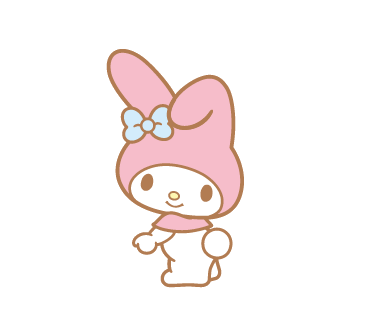
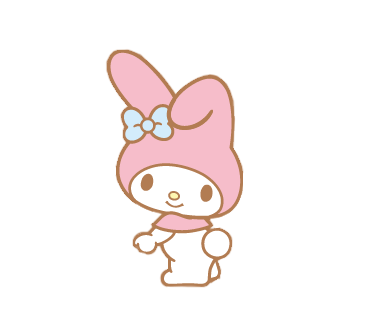
fovicon end

diff --git a/index.html b/index.html
@@ -4,7 +4,7 @@
     <meta charset="UTF-8" />
     <meta http-equiv="X-UA-Compatible" content="IE=edge" />
     <meta name="viewport" content="width=device-width, initial-scale=1.0,maximum-scale=1.0, minimum-scale=1.0, user-scalable=no/" />
-    <link rel="shortcut icon" href="../sanrio/images/fovicon/favicon.png.ico" type="image/x-icon" />
+    <link rel="shortcut icon" href="./images/fovicon/fovicon.png" type="image/x-icon" />
     <title>Sanrio</title>
     <link rel="preconnect" href="https://fonts.googleapis.com" />
     <link rel="preconnect" href="https://fonts.gstatic.com" crossorigin />
